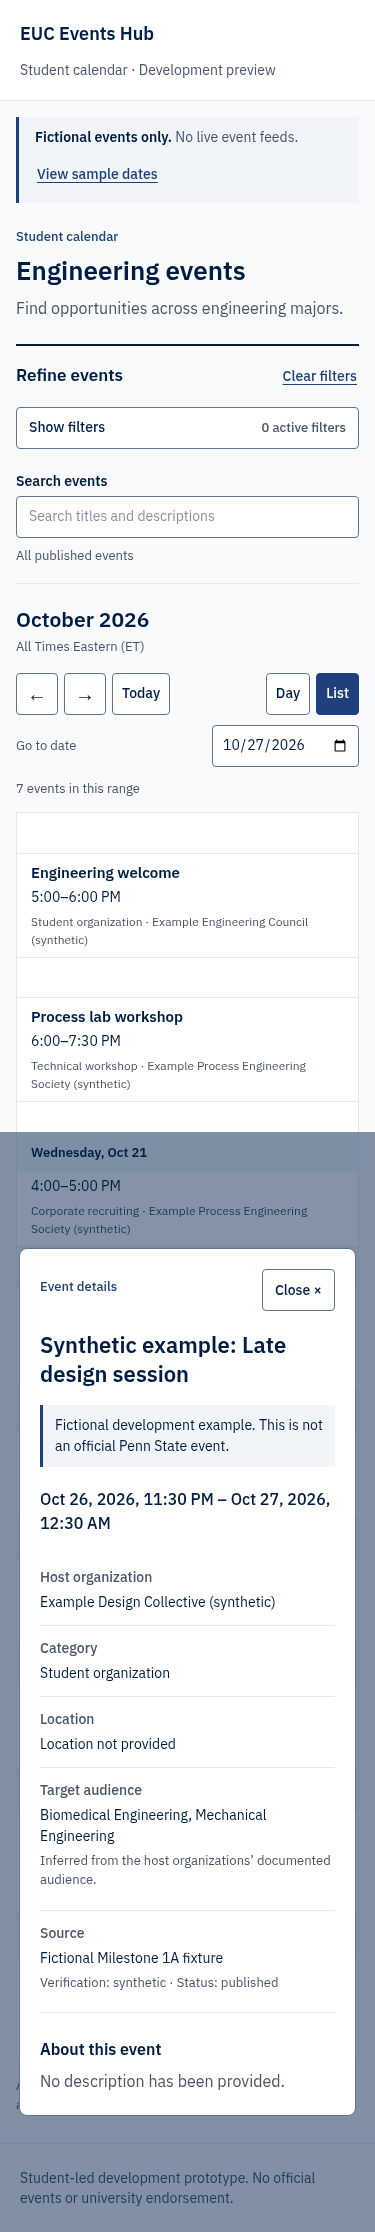
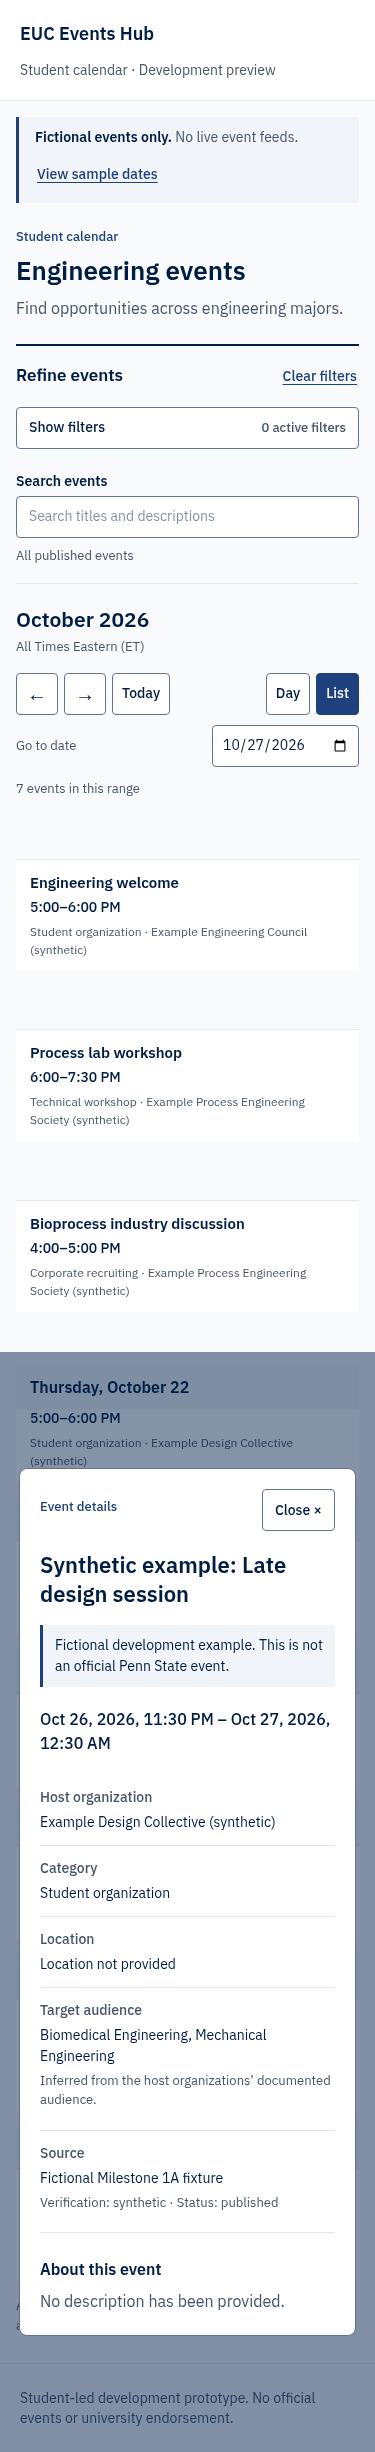
Refine mobile and tablet day-group hierarchy and spacing

diff --git a/tests/student-calendar.spec.ts b/tests/student-calendar.spec.ts
@@ -418,7 +418,7 @@ for (const width of [320, 375, 430, 768, 1023]) {
   });
 }
 
-for (const width of [320, 375, 430]) {
+for (const width of [320, 375, 430, 768]) {
   test(`mobile day groups have shared dates and title-first event rows at ${width}px`, async ({
     page,
   }) => {
@@ -429,7 +429,7 @@ for (const width of [320, 375, 430]) {
     );
     const headers = page.locator(".fc-list-day");
     await expect(headers).toHaveCount(9);
-    await expect(headers.first()).toHaveText("Monday, Oct 19");
+    await expect(headers.first()).toHaveText("Monday, October 19");
     await expect(
       page.locator('.fc-list-day[data-date="2026-10-26"]'),
     ).toHaveCount(1);
@@ -484,5 +484,112 @@ for (const width of [320, 375, 430]) {
         () => document.documentElement.scrollWidth <= innerWidth,
       ),
     ).toBe(true);
+  });
+}
+
+for (const width of [320, 375, 430, 768]) {
+  test(`same-day visual scenario, day separation and year rollover at ${width}px`, async ({
+    page,
+  }) => {
+    await page.setViewportSize({ width, height: 1100 });
+    await page.goto("/?date=2026-12-31&view=listMonth");
+    await expect(
+      page.getByRole("heading", { name: "December 2026", exact: true }),
+    ).toBeVisible();
+    const headers = page.locator(".fc-list-day");
+    await expect(headers).toHaveCount(2);
+    await expect(headers.nth(0)).toHaveText("Wednesday, December 30");
+    await expect(headers.nth(1)).toHaveText("Thursday, December 31");
+    const group = page.locator('.fc-list-day[data-date="2026-12-31"]');
+    await expect(group).toHaveCount(1);
+    const rows = page.locator(".mobile-list-event");
+    await expect(rows).toHaveCount(4);
+    await expect(rows.locator(".event-title")).toHaveText([
+      "Project showcase",
+      "Engineering career panel",
+      "Biomedical design workshop",
+      "Late-night build session",
+    ]);
+    await expect(rows.nth(0).locator(".list-event-times")).toHaveText(
+      "All day",
+    );
+    await expect(rows.nth(1).locator(".list-event-times")).toHaveText(
+      "10:00–11:00 AM",
+    );
+    await expect(rows.nth(2).locator(".list-event-times")).toHaveText(
+      "2:00–3:30 PM",
+    );
+    await expect(rows.nth(3).locator(".list-event-times")).toContainText(
+      "11:30 PM–12:30 AM",
+    );
+    await expect(rows.nth(3).locator(".list-event-times")).toContainText(
+      "Next day",
+    );
+    await expect(rows.nth(1).locator(".event-category")).toContainText(
+      "Professional development · Example Engineering Council",
+    );
+    await expect(rows.nth(2).locator(".event-category")).toContainText(
+      "Technical workshop · Example Process Engineering Society",
+    );
+    await expect(rows.nth(3).locator(".event-category")).toContainText(
+      "Student organization · Example Design Collective",
+    );
+    // Three sibling rows belong to the same single FullCalendar day header.
+    await expect(group.locator("xpath=following-sibling::tr")).toHaveCount(3);
+    const styles = await page.locator(".mobile-calendar").evaluate((root) => {
+      const style = (selector: string) =>
+        getComputedStyle(root.querySelector(selector)!);
+      return {
+        header: style(".fc-list-day-cushion").fontSize,
+        headerWeight: style(".fc-list-day-text").fontWeight,
+        gap: style(".fc-list-day:not(:first-child) th").borderTopWidth,
+        title: style(".event-title").fontSize,
+        time: style(".list-event-times").fontSize,
+        timeWeight: style(".list-event-times").fontWeight,
+        metadata: style(".event-category").fontSize,
+        divider: style(".fc-list-event-title").borderTopWidth,
+        bottomBorder: style(".fc-list-event-title").borderBottomWidth,
+      };
+    });
+    expect(styles).toEqual({
+      header: "16px",
+      headerWeight: "600",
+      gap: "12px",
+      title: "15px",
+      time: "14px",
+      timeWeight: "500",
+      metadata: "12px",
+      divider: "1px",
+      bottomBorder: "0px",
+    });
+    expect(
+      await page.evaluate(
+        () => document.documentElement.scrollWidth <= innerWidth,
+      ),
+    ).toBe(true);
+    await page.evaluate(() => document.fonts.ready);
+    await page.screenshot({
+      path: `work/same-day-${width}.png`,
+      fullPage: true,
+    });
+    await rows.nth(3).focus();
+    await page.keyboard.press("Enter");
+    await expect(page.locator(".detail-time")).toHaveText(
+      "Dec 31, 2026, 11:30 PM – Jan 1, 2027, 12:30 AM",
+    );
+    await page.keyboard.press("Escape");
+    await expect(rows.nth(3)).toBeFocused();
+    await page.getByLabel("Go to date", { exact: true }).fill("2027-01-01");
+    await expect(
+      page.getByRole("heading", { name: "January 2027", exact: true }),
+    ).toBeVisible();
+    await expect(page.locator(".fc-list-day")).toHaveText("Friday, January 1");
+    await expect(page.locator(".list-event-times")).toContainText(
+      "From prev day",
+    );
+    await expect(page.locator(".timezone-label")).toHaveText(
+      "All Times Eastern (ET)",
+    );
+    await expect(page.locator("body")).not.toContainText(/\b(?:EST|EDT)\b/);
   });
 }

diff --git a/components/calendar/event-calendar.tsx b/components/calendar/event-calendar.tsx
@@ -10,7 +10,7 @@ import type { EventFilters } from "../../lib/data/fixtures";
 import { getEvents, getOrganizations } from "../../lib/data/fixtures";
 import { DISPLAY_TIME_ZONE, easternDate } from "../../lib/time/eastern";
 import type { CalendarView } from "../../lib/domain/calendar-state";
-import { toCalendarEvent } from "./calendar-events";
+import { listRangeCrossesYears, toCalendarEvent } from "./calendar-events";
 
 type Props = {
   date: string;
@@ -42,6 +42,7 @@ export function EventCalendar({
 }: Props) {
   const calendar = useRef<FullCalendar>(null);
   const [title, setTitle] = useState("");
+  const [showGroupYear, setShowGroupYear] = useState(false);
   const [count, setCount] = useState<number | null>(null);
   const [error, setError] = useState(false);
   const plugins = useMemo(
@@ -94,9 +95,20 @@ export function EventCalendar({
     api[direction]();
     onDateChange(easternDate(api.getDate().toISOString()));
   };
-  const datesSet = (range: DatesSetArg) => setTitle(range.view.title);
+  const datesSet = (range: DatesSetArg) => {
+    setTitle(range.view.title);
+    setShowGroupYear(
+      listRangeCrossesYears(
+        range.startStr.slice(0, 10),
+        range.endStr.slice(0, 10),
+      ),
+    );
+  };
   return (
-    <section className="calendar-region" aria-label="Student events calendar">
+    <section
+      className={`calendar-region ${mobile && view.startsWith("list") ? "mobile-calendar" : ""}`}
+      aria-label="Student events calendar"
+    >
       <div className="range-heading">
         <h2 aria-live="polite">{title || "Loading calendar…"}</h2>
         <span className="timezone-label">All Times Eastern (ET)</span>
@@ -198,7 +210,12 @@ export function EventCalendar({
           }}
           listDayFormat={
             mobile
-              ? { weekday: "long", month: "short", day: "numeric" }
+              ? {
+                  weekday: "long",
+                  month: "long",
+                  day: "numeric",
+                  year: showGroupYear ? "numeric" : undefined,
+                }
               : undefined
           }
           listDaySideFormat={mobile ? false : undefined}

diff --git a/data/fixtures/index.ts b/data/fixtures/index.ts
@@ -129,6 +129,44 @@ export const events = eventSchema.array().parse([
     description:
       "Fictional open studio for exchanging project ideas. The intended major audience has not yet been classified.",
   },
+  // Year-end visual-review scenario: one all-day group, then three distinct
+  // same-day rows, including an overnight occurrence across the year boundary.
+  {
+    ...base,
+    id: "example-visual-all-day",
+    title: "Synthetic example: Project showcase",
+    hostOrganizationIds: ["example-design"],
+    allDay: true,
+    start: "2026-12-30",
+    end: "2026-12-31",
+    category: "competition",
+  },
+  {
+    ...base,
+    id: "example-visual-panel",
+    title: "Synthetic example: Engineering career panel",
+    hostOrganizationIds: ["example-council"],
+    start: "2026-12-31T10:00:00-05:00",
+    end: "2026-12-31T11:00:00-05:00",
+    category: "professional-development",
+  },
+  {
+    ...base,
+    id: "example-visual-workshop",
+    title: "Synthetic example: Biomedical design workshop",
+    hostOrganizationIds: ["example-process"],
+    start: "2026-12-31T14:00:00-05:00",
+    end: "2026-12-31T15:30:00-05:00",
+    category: "technical-workshop",
+  },
+  {
+    ...base,
+    id: "example-visual-night",
+    title: "Synthetic example: Late-night build session",
+    hostOrganizationIds: ["example-design"],
+    start: "2026-12-31T23:30:00-05:00",
+    end: "2027-01-01T00:30:00-05:00",
+  },
 ]);
 export const exams = examSchema.array().parse([
   {

diff --git a/components/calendar/calendar-events.test.ts b/components/calendar/calendar-events.test.ts
@@ -1,7 +1,11 @@
 import { describe, expect, it } from "vitest";
 import { getEventById, getEvents } from "../../lib/data/fixtures";
 import { eventSchema } from "../../lib/domain/models";
-import { listEventTimes, toCalendarEvent } from "./calendar-events";
+import {
+  listEventTimes,
+  listRangeCrossesYears,
+  toCalendarEvent,
+} from "./calendar-events";
 
 describe("FullCalendar data mapping", () => {
   it("preserves occurrence IDs and timed instants", () => {
@@ -53,7 +57,7 @@ describe("FullCalendar data mapping", () => {
         .map((event) => event.id),
     ).not.toContain("example-open-topic");
     expect(
-      getEvents({ start: "2027-01-01", end: "2027-01-02" }).map(
+      getEvents({ start: "2027-02-01", end: "2027-02-02" }).map(
         toCalendarEvent,
       ),
     ).toEqual([]);
@@ -119,4 +123,10 @@ it("keeps accurate, chronological ranges for multiple events sharing one Eastern
     ["2:00–3:30 PM"],
     ["11:30 PM–", "12:30 AM", "Next day"],
   ]);
+});
+
+it("adds years only when the displayed days span years, respecting exclusive ends", () => {
+  expect(listRangeCrossesYears("2026-12-01", "2027-01-01")).toBe(false);
+  expect(listRangeCrossesYears("2026-12-31", "2027-01-02")).toBe(true);
+  expect(listRangeCrossesYears("2027-01-01", "2027-02-01")).toBe(false);
 });

diff --git a/app/globals.css b/app/globals.css
@@ -683,7 +683,7 @@ button.control[aria-pressed="true"] {
 .fc .mobile-list-content .list-event-times {
   margin-top: 4px;
   font-size: 14px;
-  font-weight: 400;
+  font-weight: 500;
 }
 .fc .mobile-list-content .time-part {
   display: inline-block;
@@ -698,4 +698,37 @@ button.control[aria-pressed="true"] {
 
 .fc .mobile-list-content .time-note {
   margin-left: 4px;
+}
+
+/* Shared day groups use the same hierarchy and separation through tablet. */
+.mobile-calendar .fc .fc-list {
+  border: 0;
+  background: var(--color-background);
+}
+.mobile-calendar .fc .fc-list-table {
+  border-collapse: separate;
+  border-spacing: 0;
+}
+.mobile-calendar .fc .fc-list-day th {
+  border-bottom: 0;
+}
+.mobile-calendar .fc .fc-list-event {
+  background: var(--color-surface);
+}
+.mobile-calendar .fc .fc-list-day:not(:first-child) th {
+  border-top: 12px solid var(--color-background);
+}
+.mobile-calendar .fc .fc-list-day-cushion {
+  padding: 12px 14px;
+  font-size: 16px;
+  line-height: 1.4;
+  font-weight: 600;
+}
+.mobile-calendar .fc .fc-list-day-text {
+  font-weight: 600;
+}
+.mobile-calendar .fc .fc-list-event-title {
+  padding: 12px 14px;
+  border-top: 1px solid var(--color-border);
+  border-bottom: 0;
 }

diff --git a/components/calendar/calendar-events.ts b/components/calendar/calendar-events.ts
@@ -3,6 +3,7 @@ import type { Event } from "../../lib/domain/models";
 import { EVENT_CATEGORIES } from "../../lib/domain/event-categories";
 import {
   formatEventClockRange,
+  addCalendarDays,
   easternDate,
   formatEventTime,
 } from "../../lib/time/eastern";
@@ -39,4 +40,9 @@ export function listEventTimes(
   if (elapsed) labels.push(`(${elapsed}`);
   if (days > 0) labels.push(days === 1 ? "Next day" : `+${days} days`);
   return labels;
+}
+
+/** FullCalendar ranges have exclusive ends; only displayed years need labels. */
+export function listRangeCrossesYears(start: string, end: string): boolean {
+  return start.slice(0, 4) !== addCalendarDays(end, -1).slice(0, 4);
 }

diff --git a/README.md b/README.md
@@ -25,7 +25,7 @@ npm run build
 
 ## Student calendar
 
-The home page supports month, week, day, and chronological list views; previous/next/today navigation; a date jump; and published-only event details. Below 1024px, the default is a chronological month list with an optional day view. Below 1024px, filters collapse behind a labeled control showing the active-filter count. On desktop the sidebar stays visible. Majors, Organizations, and Event categories expand independently and retain selections. The count includes Recommended mode, majors used by that mode, organizations, categories, and nonempty search; majors saved in All Events do not affect results or the count. Mobile chronological lists share a weekday and abbreviated-date header per day without repeating the year. Separate event rows show title, concise time range, and available category/host information. Overnight rows use Next day or From prev day cues; event details retain full dates. All displayed dates, times, week boundaries, and navigation use `America/New_York`, independently of the browser time zone.
+The home page supports month, week, day, and chronological list views; previous/next/today navigation; a date jump; and published-only event details. Below 1024px, the default is a chronological month list with an optional day view. Below 1024px, filters collapse behind a labeled control showing the active-filter count. On desktop the sidebar stays visible. Majors, Organizations, and Event categories expand independently and retain selections. The count includes Recommended mode, majors used by that mode, organizations, categories, and nonempty search; majors saved in All Events do not affect results or the count. Mobile chronological lists share a weekday and full-month date header per day without repeating the year within a single-year range (cross-year displayed ranges include years). Date headers use 16px semibold text and 12px separation between day groups across mobile and tablet. Connected event rows use subtle dividers and show 15px semibold titles, 14px medium-weight times, and 12px muted category/host information. Overnight rows use Next day or From prev day cues; event details retain full dates. All displayed dates, times, week boundaries, and navigation use `America/New_York`, independently of the browser time zone.
 
 Use All Events to browse every published event, including unclassified examples. Recommended Events uses the selected majors and includes college-wide, explicitly targeted, and inherited host-audience events. Organization and category selections narrow results independently; search matches event titles and descriptions, ignoring case and surrounding whitespace. Clear filters returns to All Events and clears major, host, category, and search selections while preserving date and view.
 
@@ -131,3 +131,5 @@ The impact is potential stack-exhaustion denial of service when development tool
 ## Preview screenshots
 
 Rendered synthetic examples at [desktop width](docs/previews/student-calendar-desktop.png) and [mobile width](docs/previews/student-calendar-mobile.png). These are local test captures, not a hosted deployment.
+
+A synthetic year-end visual-review scenario is available at `/?date=2026-12-31&view=listMonth`: an all-day event on December 30 precedes three timed events on December 31 with distinct hosts, categories, and ranges. The final event crosses into January 1, 2027. Browser tests inspect these groups at 320, 375, 430, and 768px and verify the January continuation and full-date details. These are fictional fixtures; existing October examples remain unchanged.
